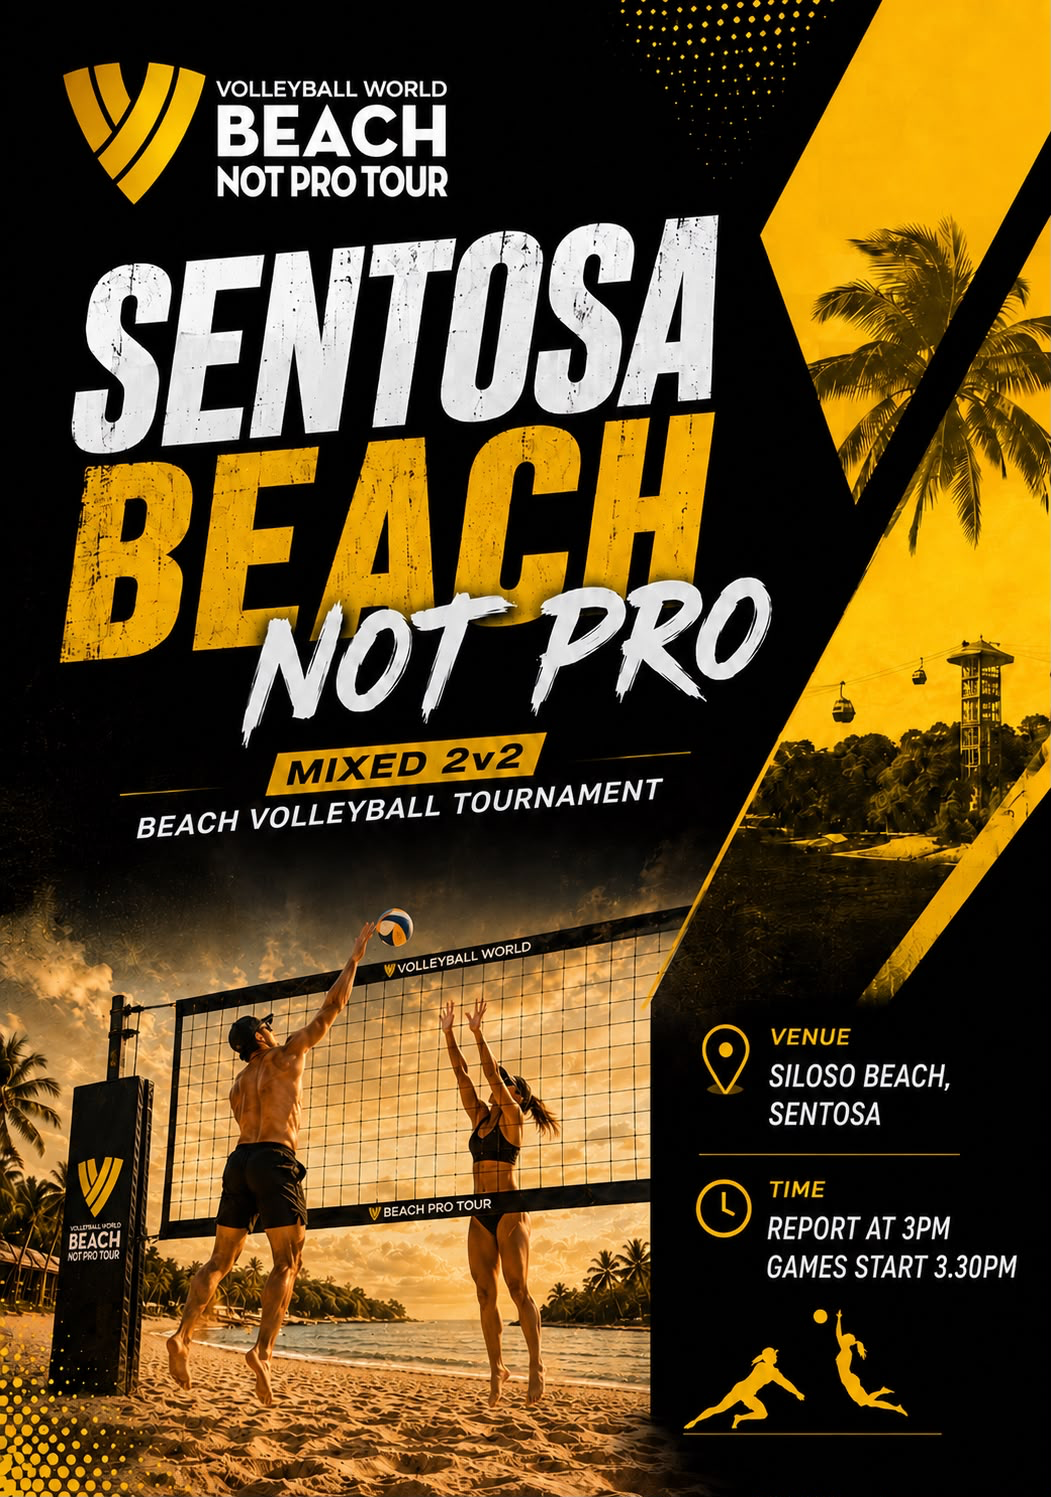
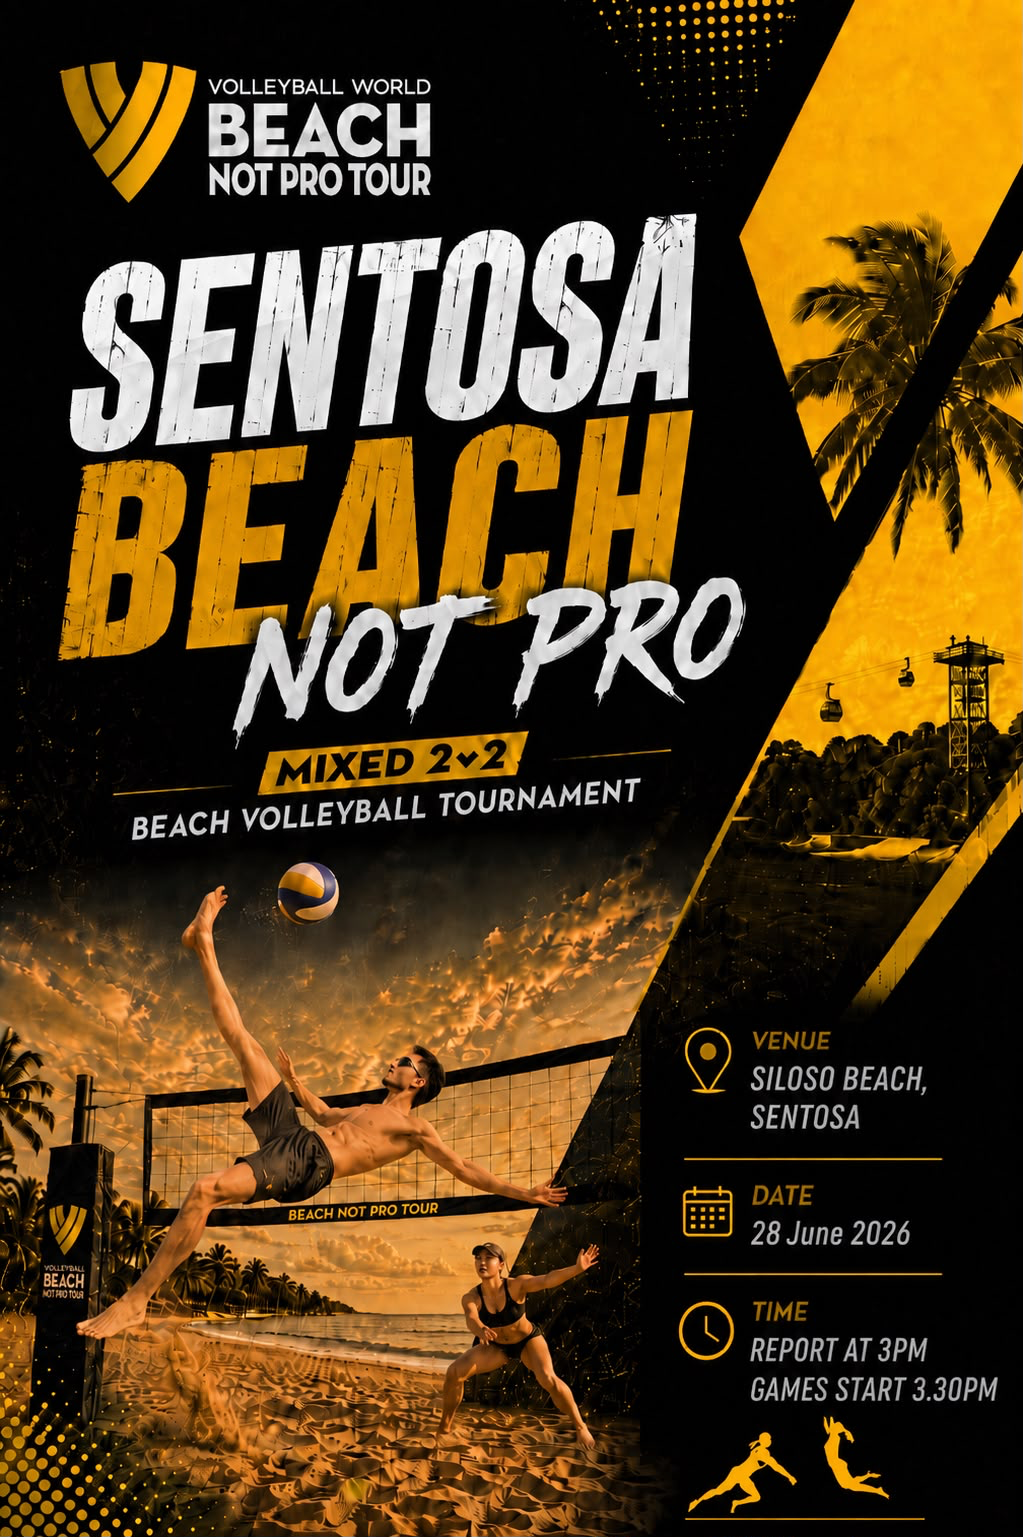
Update tournament poster

diff --git a/src/styles.css b/src/styles.css
@@ -136,7 +136,7 @@ input[type="number"]::-webkit-outer-spin-button {
   width: min(100%, 22rem);
   max-width: 100%;
   min-height: 21rem;
-  aspect-ratio: 1051 / 1497;
+  aspect-ratio: 1023 / 1537;
   border: 4px solid #f7c313;
   border-radius: 6px;
   background: #050505;